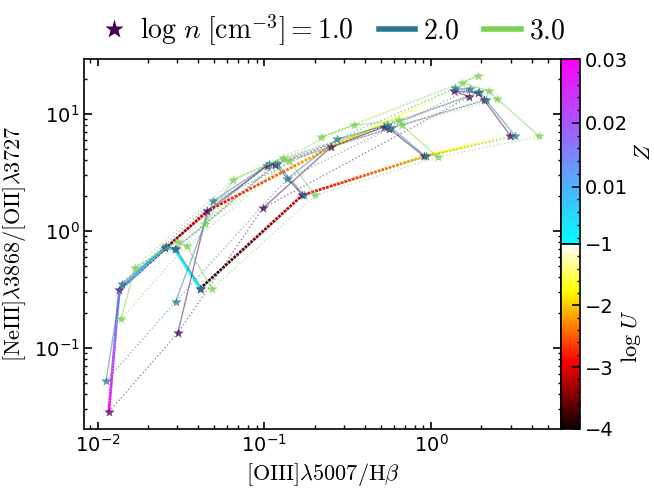
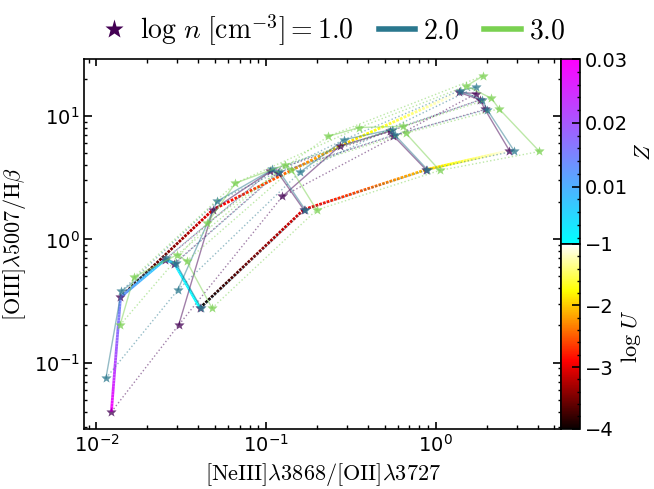
Swap x&y labelS

diff --git a/harkatz_models/example_gutkin.py b/harkatz_models/example_gutkin.py
@@ -169,8 +169,8 @@ def example_plot_ssp_metal_logu_interp_roberta(
         handletextpad=0.3, labelspacing=0, handlelength=1.3, loc='lower left',
         columnspacing=0.9, borderaxespad=0.01, bbox_to_anchor=(-0., 1.))
     for l in legend.get_lines(): l.set_alpha(1); l.set_lw(4)
-    axes.set_xlabel('$\mathrm{[OIII]\lambda5007/H\\beta}$', fontsize=16)
-    axes.set_ylabel('$\mathrm{[NeIII]\lambda 3868/[OII]\lambda 3727}$', fontsize=16)
+    axes.set_xlabel('$\mathrm{[NeIII]\lambda 3868/[OII]\lambda 3727}$', fontsize=16)
+    axes.set_ylabel('$\mathrm{[OIII]\lambda5007/H\\beta}$', fontsize=16)
 
     for ax in fig.axes: ax.tick_params(axis='both', which='both', labelsize=14)
 
